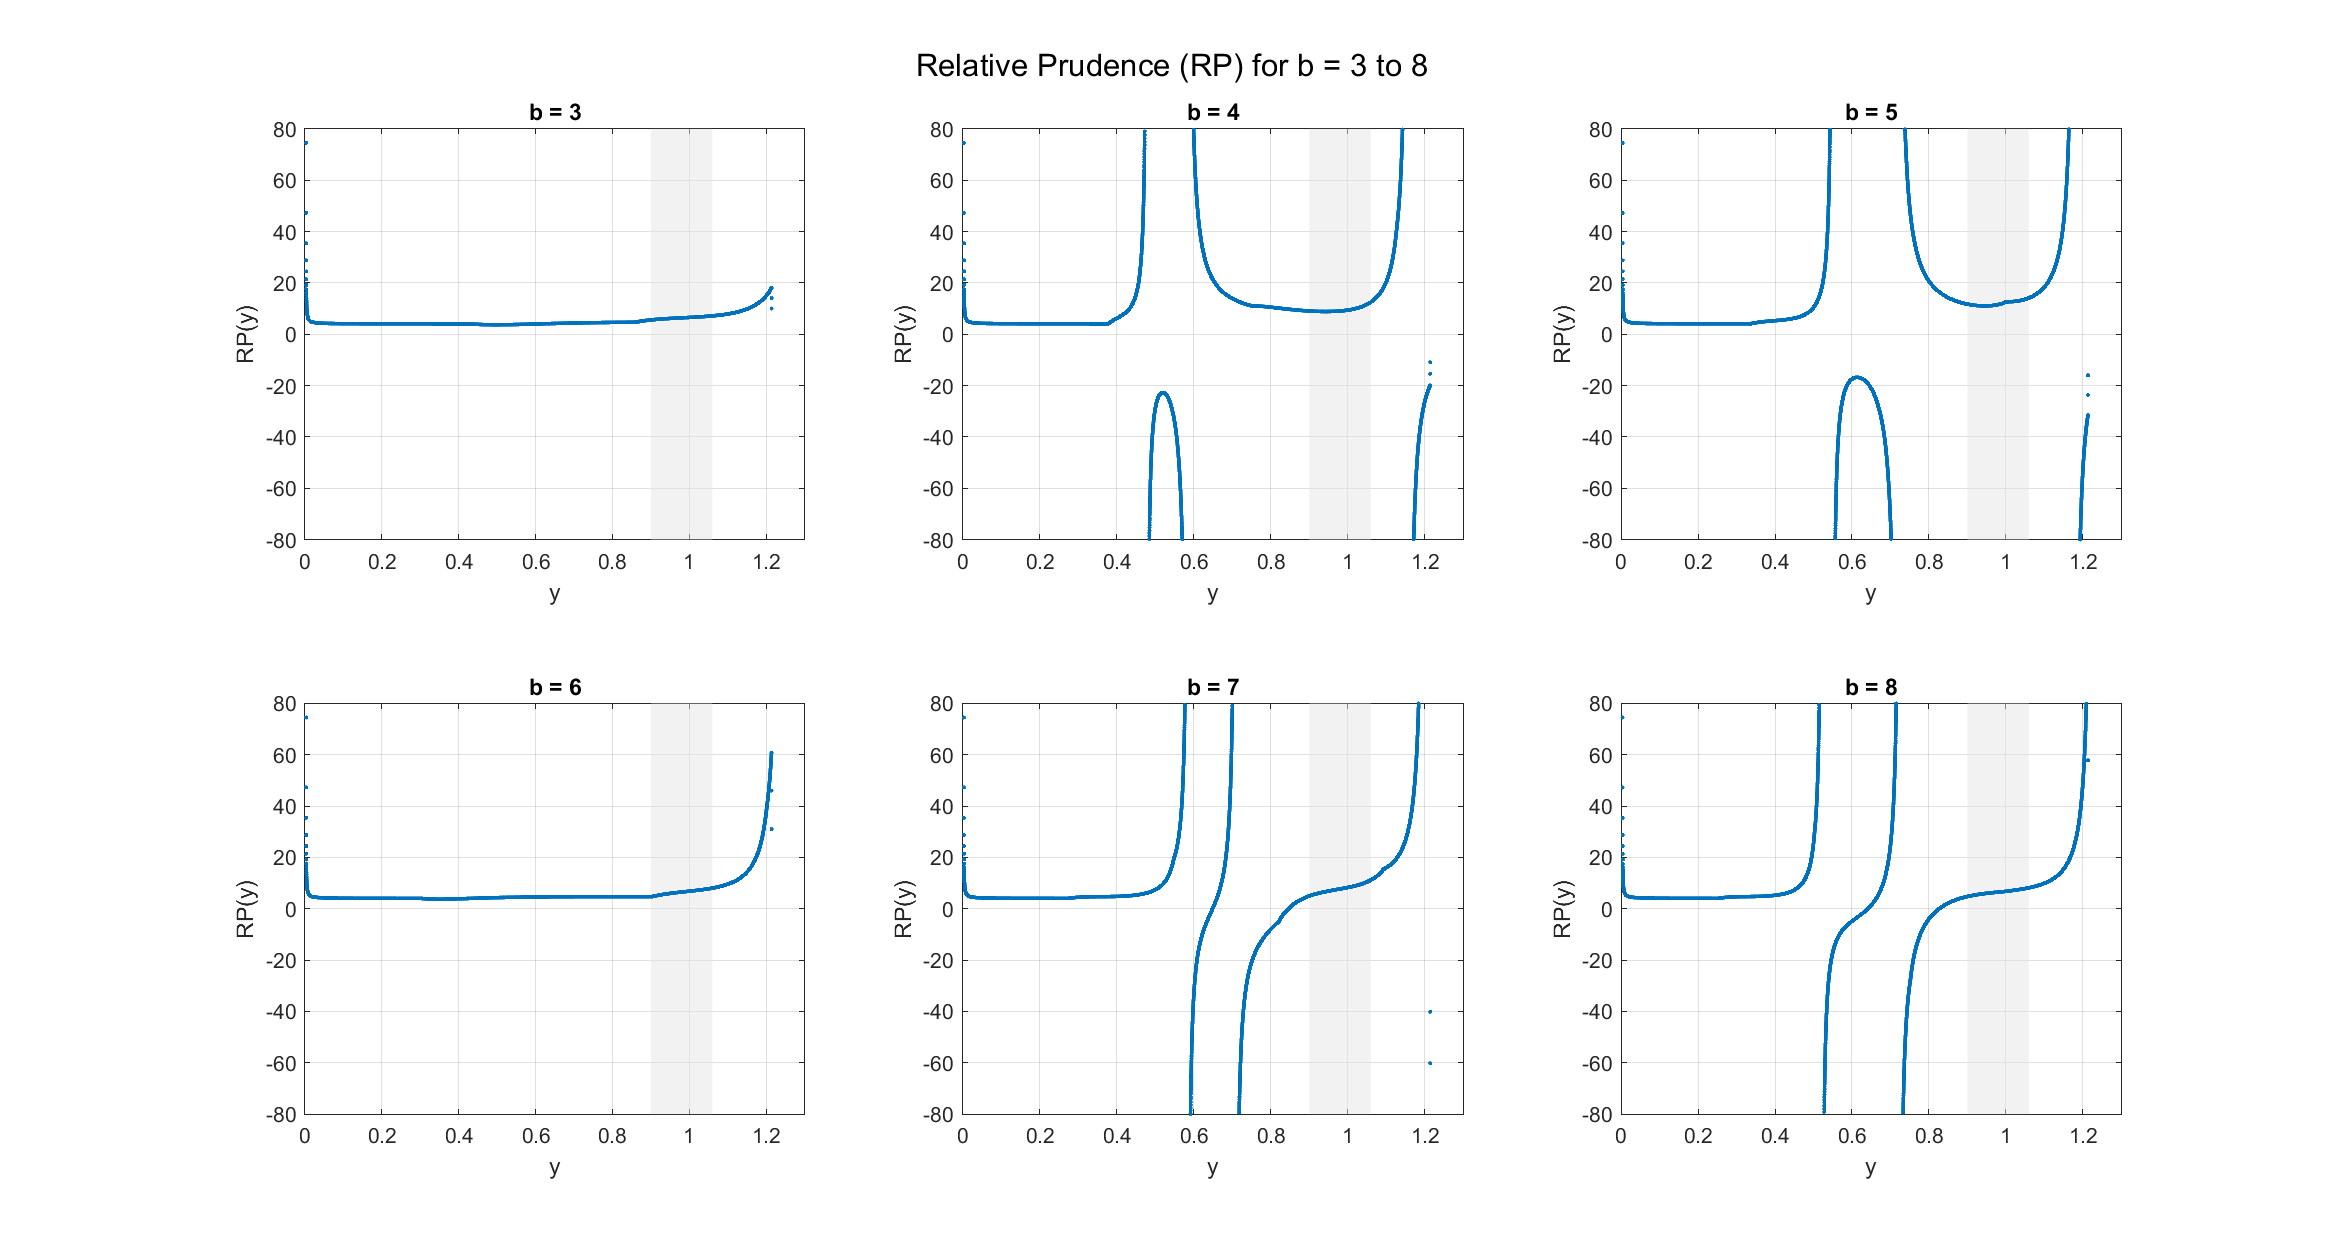
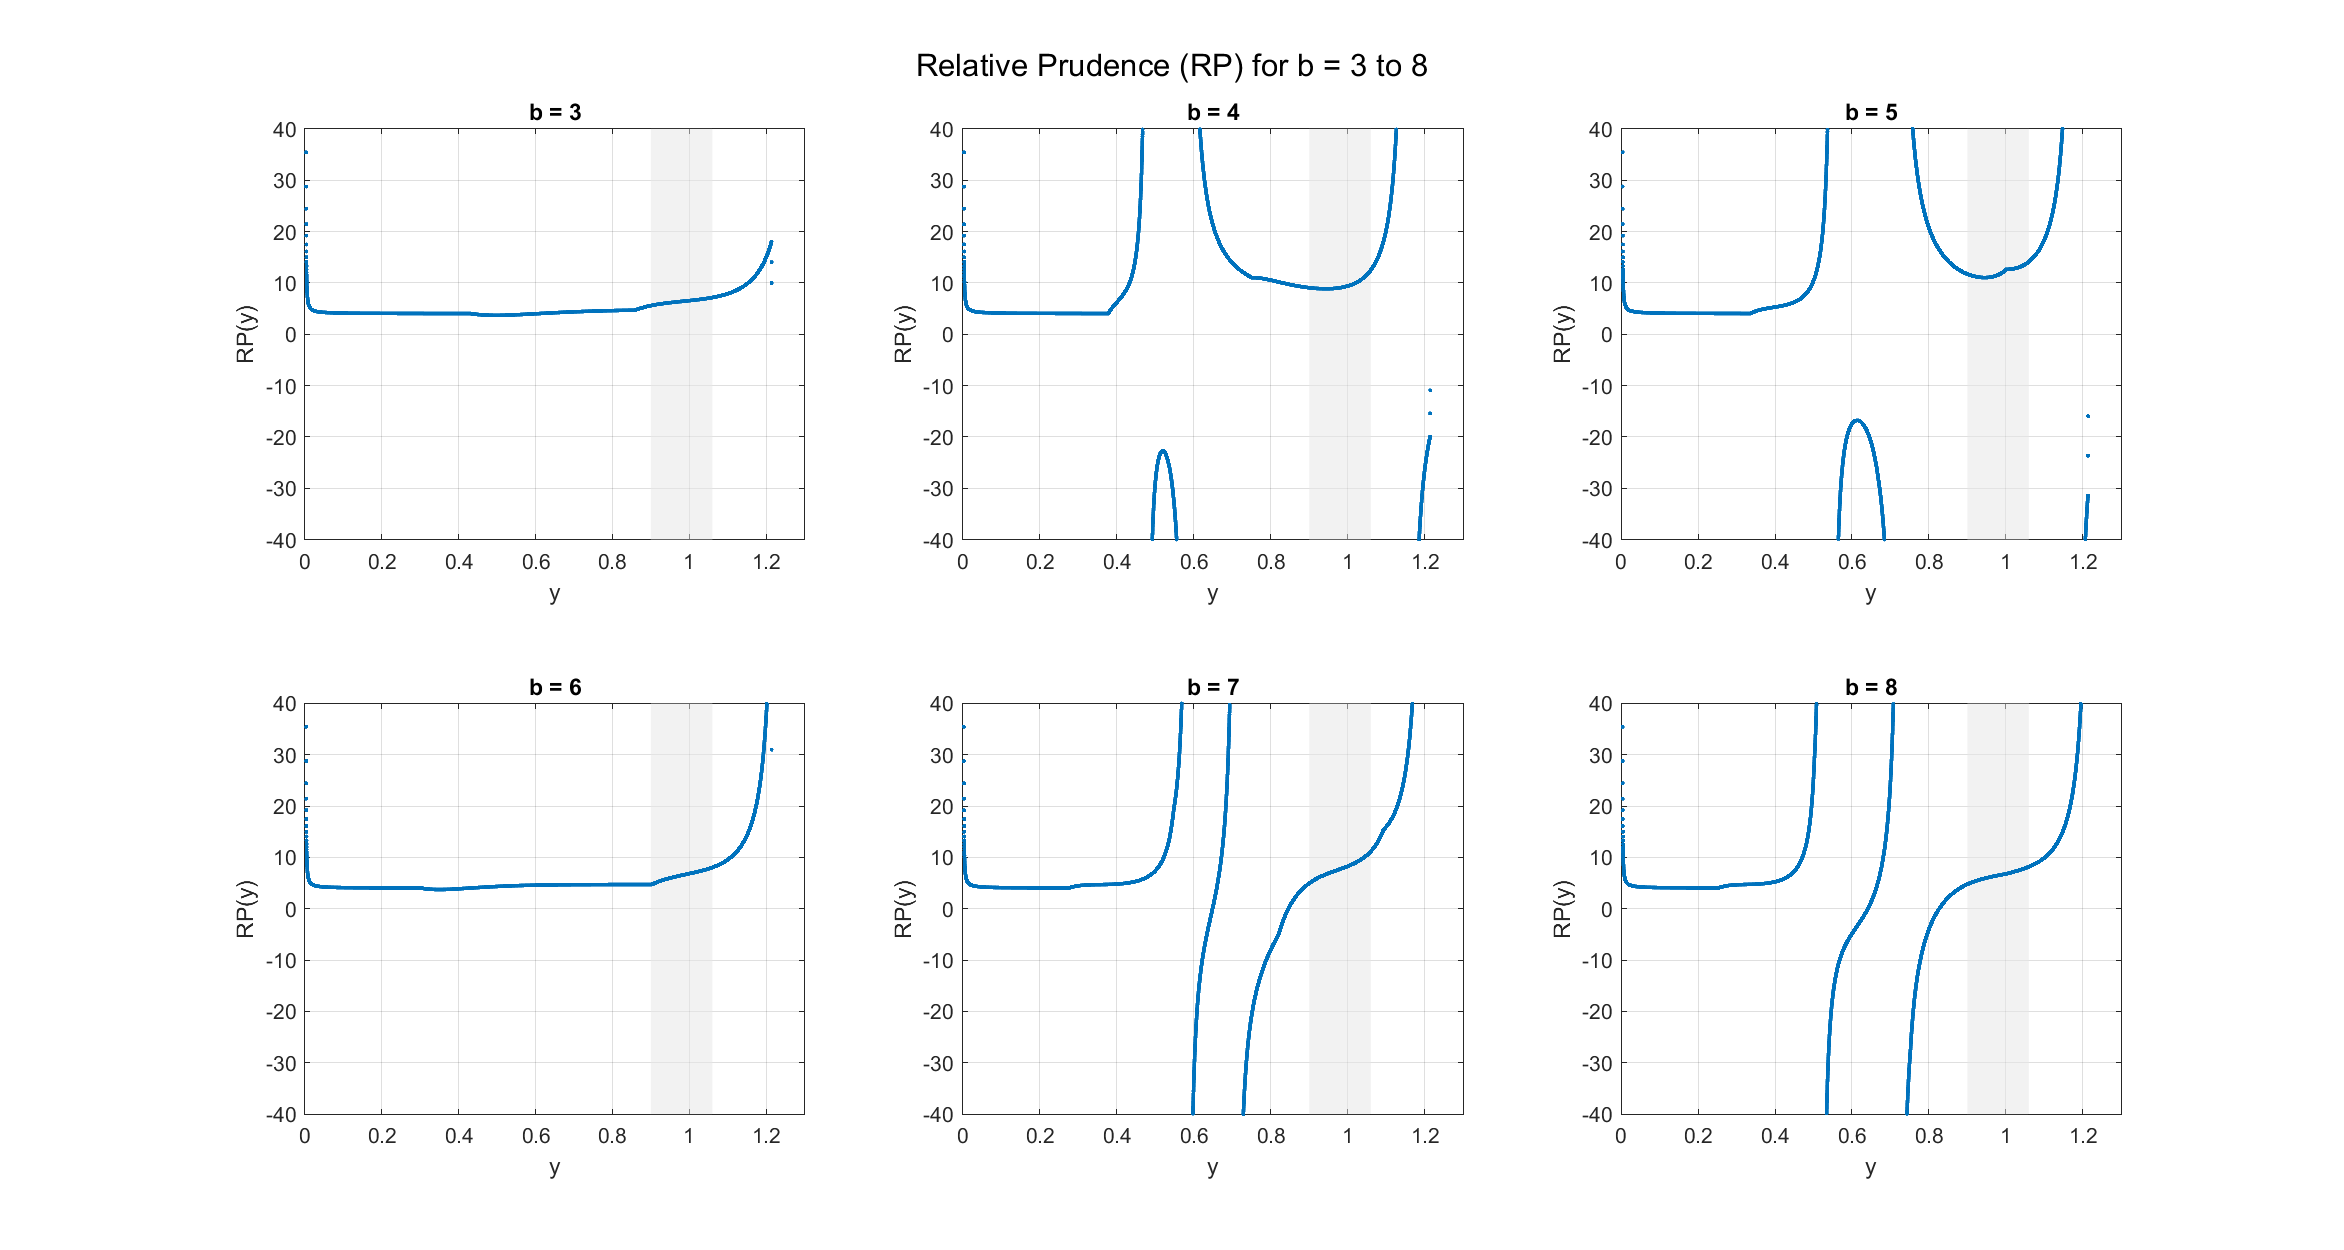
Modify graphics range

diff --git a/04  風險和謹慎指標（RRA and RP）/Procedure__RRA_and_RP.m b/04  風險和謹慎指標（RRA and RP）/Procedure__RRA_and_RP.m
@@ -273,8 +273,8 @@ clear filename
 
 %% Relative Prudence (RP)
 
-y_min = -80;
-y_max = 80;
+y_min = -40;
+y_max = 40;
 
 figure;
 for idx = 1:6
